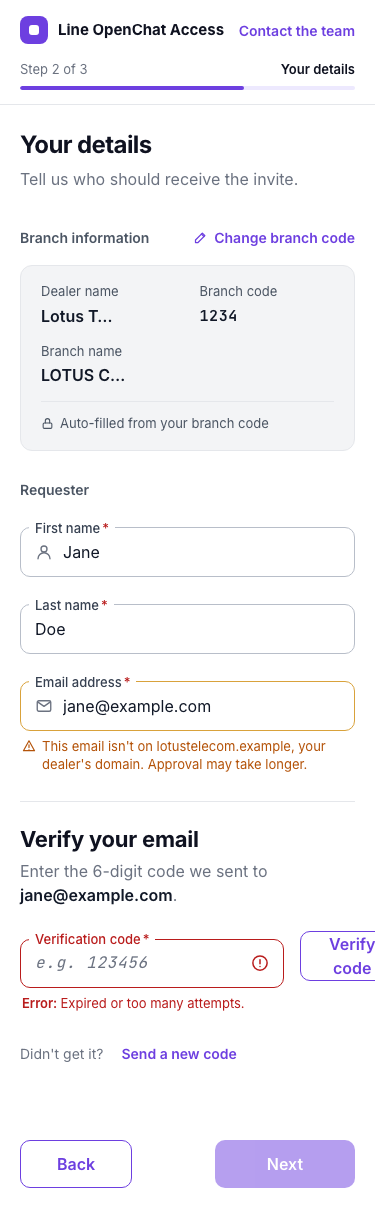
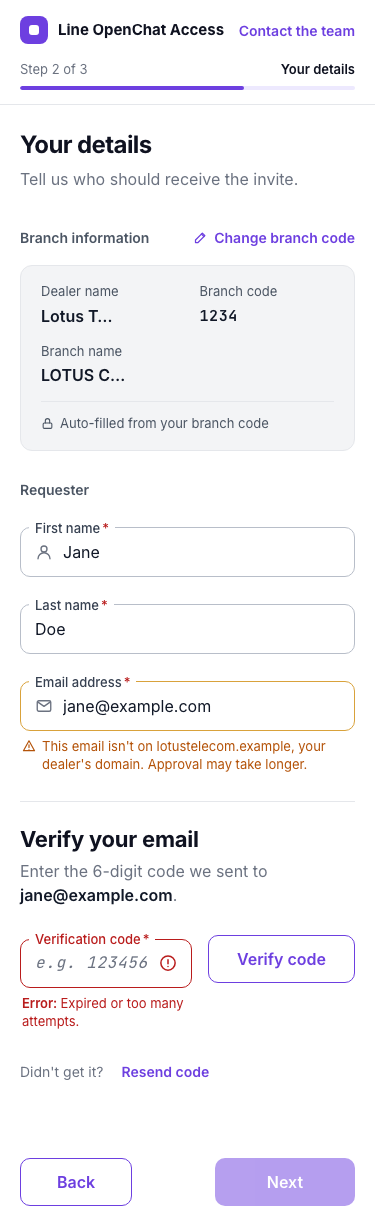
chore: complete phase 2 UI fidelity and documentation updates

diff --git a/src/app/page.tsx b/src/app/page.tsx
@@ -372,8 +372,8 @@ export function RequestForm({ initialState = {} }: { initialState?: FormInitialS
                         <h2 className="m-0 text-[22px] md:text-[28px] leading-[1.25] font-bold text-[#0F1220] tracking-[-0.01em]">Verify your email</h2>
                         <p className="m-0 text-[16px] leading-[24px] text-[#6B7280] break-words">Enter the 6-digit code we sent to <span className="text-[#111827] font-semibold">{watchedEmail}</span>.</p>
                       </div>
-                      <div className="relative max-w-[360px] flex gap-4 items-start">
-                        <div className="flex-1">
+                      <div className="relative flex gap-[16px] items-start">
+                        <div className="flex-1 min-w-0 max-w-[360px]">
                           <FloatField 
                             label="Verification code" 
                             required={true}
@@ -389,15 +389,15 @@ export function RequestForm({ initialState = {} }: { initialState?: FormInitialS
                             onChange={e => setOtpInput(e.target.value)}
                           />
                         </div>
-                        <Button type="button" variant="secondary" onClick={handleVerifyOtp}>Verify code</Button>
+                        <Button type="button" variant="secondary" onClick={handleVerifyOtp} className="whitespace-nowrap flex-none mt-[4px]">Verify code</Button>
                       </div>
                       <div aria-live="polite" className="flex items-center gap-[8px] flex-wrap text-[14px] leading-[20px] text-[#6B7280]">
                         {timeRemaining > 0 ? (
-                          <span>Didn&apos;t get it? Resend code in <span className="font-mono text-[#111827] font-semibold">{Math.floor(timeRemaining / 60)}:{String(timeRemaining % 60).padStart(2, '0')}</span></span>
+                          <span>Didn&apos;t get it? Resend code in <span className="font-mono text-[#111827] font-semibold">{timeRemaining}s</span></span>
                         ) : (
                           <>
                             <span>Didn&apos;t get it?</span>
-                            <button type="button" onClick={triggerOtp} className="whitespace-nowrap min-h-[36px] px-[10px] rounded-[8px] border-0 bg-transparent text-[#6D3FE0] font-[inherit] text-[14px] font-semibold cursor-pointer hover:bg-[#F5F3FF] focus:outline-none focus:ring-2 focus:ring-[rgba(109,63,224,.3)]">Send a new code</button>
+                            <button type="button" onClick={triggerOtp} className="whitespace-nowrap min-h-[36px] px-[10px] rounded-[8px] border-0 bg-transparent text-[#6D3FE0] font-[inherit] text-[14px] font-semibold cursor-pointer hover:bg-[#F5F3FF] focus:outline-none focus:ring-2 focus:ring-[rgba(109,63,224,.3)]">Resend code</button>
                           </>
                         )}
                       </div>

diff --git a/e2e/scenarios.spec.ts b/e2e/scenarios.spec.ts
@@ -63,7 +63,7 @@ test.describe('Phase 2C: Dev Scenarios', () => {
         await expect(page.getByText('A request for this email is already pending')).toBeVisible();
       } else if (s === "verify-sent") {
         await expect(page.getByText('Enter the 6-digit code')).toBeVisible();
-        await expect(page.getByText('Send a new code')).toBeVisible();
+        await expect(page.getByText(/Resend code in/)).toBeVisible();
       } else if (s === "verify-wrong") {
         await expect(page.getByText("That code doesn't match.")).toBeVisible();
       } else if (s === "verify-ok") {
@@ -76,7 +76,7 @@ test.describe('Phase 2C: Dev Scenarios', () => {
         await expect(page.getByText('Signature is required')).toBeVisible();
       } else if (s === "expired") {
         await expect(page.getByText('Expired or too many attempts.')).toBeVisible();
-        await expect(page.getByText('Send a new code')).toBeVisible();
+        await expect(page.getByText('Resend code')).toBeVisible();
       }
 
       // Desktop screenshot

diff --git a/src/app/dev/scenarios/page.tsx b/src/app/dev/scenarios/page.tsx
@@ -78,7 +78,8 @@ export default async function ScenariosPage({ searchParams }: { searchParams: Pr
       lookupState: "found",
       branchData: defaultBranchData.status === "found" ? defaultBranchData : null,
       form2: { firstName: "Jane", lastName: "Doe", email: "jane@example.com" },
-      otpState: sendOtp(now)
+      // eslint-disable-next-line react-hooks/purity
+      otpState: sendOtp(Date.now())
     };
   } else if (s === "verify-wrong") {
     const otpStart = sendOtp(now);

diff --git a/README.md b/README.md
@@ -1,41 +1,84 @@
-# Line OpenChat Access Request
+# Dealer Access Portal
 
-A public portfolio mini-project demonstrating a Next.js (App Router) form with branch lookup, email OTP verification, canvas signature, and an admin back-office.
+A portfolio demo of a **Line OpenChat access request** flow for dealer branch staff:
+branch lookup → email OTP → consent + signature → admin approval → invite by email.
+Built with Next.js, TypeScript and a violet Soft-UI design system.
 
-[Insert Screenshot Placeholder Here]
+> **Status: work in progress.** The public request form (Phase 2) is complete and runs on mock data.
+> The database, admin back-office and real email delivery are planned (see Roadmap).
+> **All data is fictional.** Companies, people, branch codes and emails are invented (`*.example` domains).
+> The OpenChat room URL is a placeholder and is never sent to the browser.
 
-## Tech Stack
-- **Framework:** Next.js (App Router), React, TypeScript
-- **Styling:** Tailwind CSS
-- **Database:** PostgreSQL, Drizzle ORM
-- **Validation:** Zod, React Hook Form
-- **Testing:** Vitest (Unit), Playwright (E2E)
-- **Local Infrastructure:** Docker Compose (Postgres 16, Mailpit)
+## Screenshots
 
-## Local Quickstart
-Setup the project locally in under 5 minutes:
+| Branch lookup | Your details | Consent & signature | Request submitted |
+|---|---|---|---|
+| ![Step 1](screenshots/phase2/step1-found.png) | ![Step 2](screenshots/phase2/step2-verified.png) | ![Step 3](screenshots/phase2/step3-signature.png) | ![Step 4](screenshots/phase2/step4-success.png) |
 
-1. **Install dependencies:**
-   ```bash
-   pnpm i
-   ```
-2. **Start local infrastructure (DB & Mailpit):**
-   ```bash
-   pnpm db:up
-   ```
-3. **Run database migrations and seed data:**
-   ```bash
-   pnpm db:migrate
-   pnpm db:seed
-   ```
-4. **Start the development server:**
-   ```bash
-   pnpm dev
-   ```
-   - App is available at: [http://localhost:3000](http://localhost:3000)
-   - Mailpit (to view sent OTPs) is available at: [http://localhost:8025](http://localhost:8025)
+Mobile (375px) versions and 10 edge-case states live in `screenshots/`.
 
-## Demo Data
-This project uses fictional data for demonstration and public portfolio purposes. All companies, people, emails, and branch codes are entirely fictional and do not correspond to any real entities. (e.g. `*.example` domains are used).
+## What works today
 
-The OpenChat room URL is a placeholder, and the project is a demo, not for production use.
+- 4-step public form: branch lookup with masked dealer/branch names, requester details, email OTP, consent and drawn/typed signature
+- OTP rules as pure, tested functions: 6 digits, 10-minute expiry, 60-second resend cooldown, max 3 attempts
+- Email-domain mismatch is a warning only (never blocks)
+- Honeypot field for bots
+- `/dev/components` (component playground) and `/dev/scenarios?s=<id>` (10 deterministic UI states); both return 404 in production
+- Bundle-leak check (`pnpm check:bundle`) that fails if the room URL or sample emails reach the client bundle
+- Accessibility: axe checks on every step and scenario, WCAG AA contrast, keyboard focus handling
+
+## Try it locally
+
+Requires Node 22 and pnpm.
+
+```bash
+pnpm install
+pnpm dev          # http://localhost:3000
+```
+
+Demo inputs:
+
+| Input | Value |
+|---|---|
+| Branch code (found) | `1234` |
+| Branch code (inactive / not found) | `9999`, `0000` |
+| OTP code (mock) | `123456` |
+
+## Scripts
+
+| Command | Purpose |
+|---|---|
+| `pnpm lint` / `pnpm typecheck` | ESLint / TypeScript |
+| `pnpm test` | Vitest unit tests |
+| `pnpm e2e` | Playwright end-to-end + axe accessibility tests |
+| `pnpm build` then `pnpm check:bundle` | Production build and client-bundle leak check |
+| `pnpm db:*` | Reserved for Phase 3 (PostgreSQL + Drizzle); Docker Compose file included |
+
+## Tech stack
+
+Next.js (App Router), React, TypeScript (strict), Tailwind CSS v4, React Hook Form + Zod,
+Vitest + Testing Library, Playwright + axe-core. Planned: PostgreSQL 16 + Drizzle, Mailpit.
+
+## Design and decisions
+
+- Design source of truth: [`design/`](design/) (exported from Claude Design), summarised in [`docs/DESIGN_SPEC.md`](docs/DESIGN_SPEC.md)
+- Architecture decisions (ADR 1–13): [`docs/DECISIONS.md`](docs/DECISIONS.md)
+- Plan and phases: [`docs/PLAN.md`](docs/PLAN.md)
+- Interfaces keep infrastructure swappable: `EmailSender`, `InviteLinkBuilder`, `StorageProvider`, `AuthProvider`
+
+## Roadmap
+
+| Phase | Scope | Status |
+|---|---|---|
+| 1 | Scaffold, design tokens, base components | Done |
+| 2 | Public request form, mock logic, scenarios, tests | Done |
+| 3 | PostgreSQL schema, server-side lookup and rate limiting | Planned |
+| 4 | Admin back-office (approve / reject) | Planned |
+| 5 | Email delivery via Mailpit (OTP and invite) | Planned |
+| 6 | Local runbook and polish | Planned |
+
+## Notes
+
+- Consent text is a draft placeholder (`v0-draft [Legal to confirm]`) and not legal advice.
+- Built with AI-assisted tooling; see `CLAUDE.md` and `AGENTS.md` for the working rules used.
+- License: not yet specified (all rights reserved). Add a `LICENSE` file if you want others to reuse the code.

diff --git a/docs/DECISIONS.md b/docs/DECISIONS.md
@@ -55,6 +55,12 @@ This file tracks significant technical and architectural decisions made througho
 - **Decision:** Phase 2 mock lookup runs client-side; Phase 3 moves lookup and domain check to the server and returns only masked data.
 - **Rule:** The masking rule is "First word + space + first letter of the second word + …", returning standard generic responses for inactive or invalid branches.
 
-## 13. High-Fidelity Design Implementation (Phase 2B)
+## 13. High-Fidelity Design Implementation (Phase 2B & 2C)
 - **Decision:** The application UI was updated to strictly match the design specifications (`design/RequestForm2.dc.html`, `design/FloatField2.dc.html`).
-- **Rationale:** Ensure the application accurately reflects the approved design tokens, spacing, typography, and specific component behaviors (e.g., fieldset/legend for floating labels instead of CSS-only placeholder hacks) as mandated by the "design is the source of truth" requirement. The only preserved deviations are wording sanitization, the prior ADR 11 accessibility fixes, and the use of `#B91C1C` for error text/borders (deviating from `#DC3E3E` in the design) to satisfy WCAG AA contrast requirements.
+- **Rationale:** Ensure the application accurately reflects the approved design tokens, spacing, typography, and specific component behaviors.
+- **Approved Deviations & Standards:**
+  - Wording is sanitized for real brands/people, and we exclusively use fictional `*.example` domains (e.g., `jane@example.com`, `lotustelecom.example`) for all fixtures, scenarios, and tests.
+  - The use of `#B91C1C` for error text/borders (deviating from `#DC3E3E` in the design) is strictly enforced to satisfy WCAG AA contrast requirements.
+  - The Stepper component exactly mirrors the design (e.g. pale green fill `#DCF5E7` with dark green `#2E7D5B` checkmark for completed steps, and violet connectors).
+  - The Branch Information card layout, "Next" button label, and required field asterisks were brought to 1:1 parity with the design.
+  - The OTP Resend flow perfectly matches the design layout and cooldown text ("Resend code in Ns").
